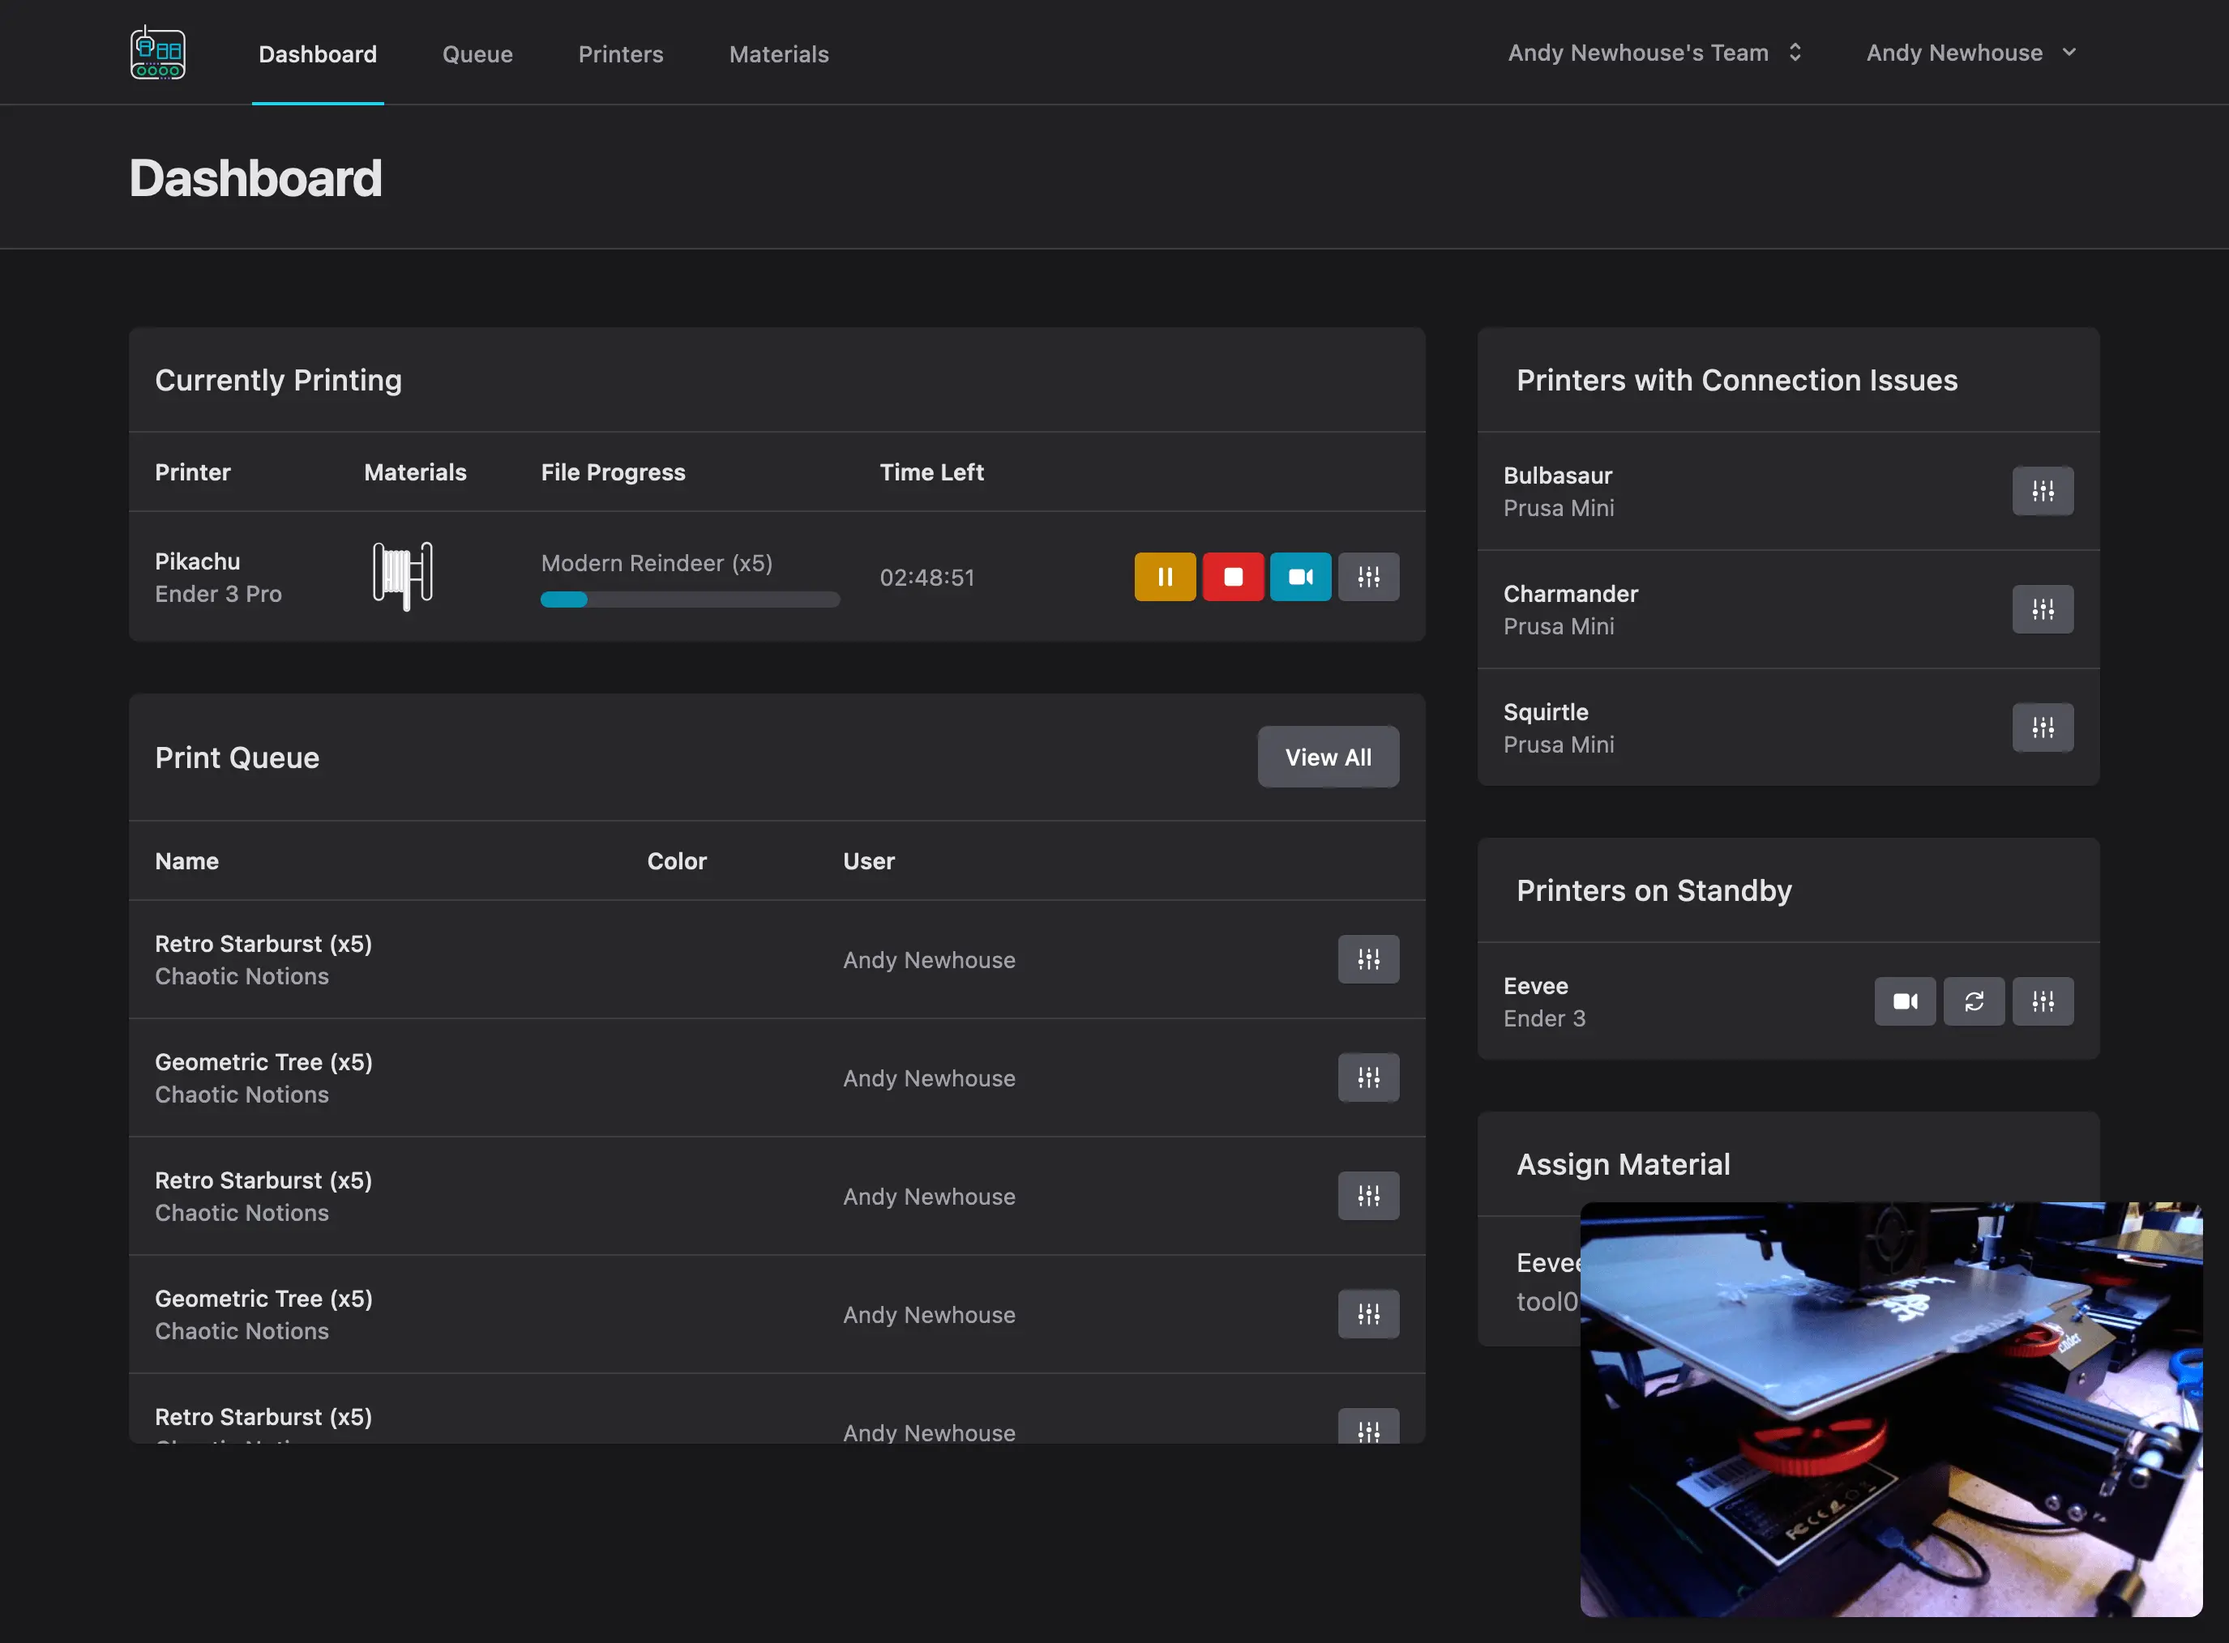
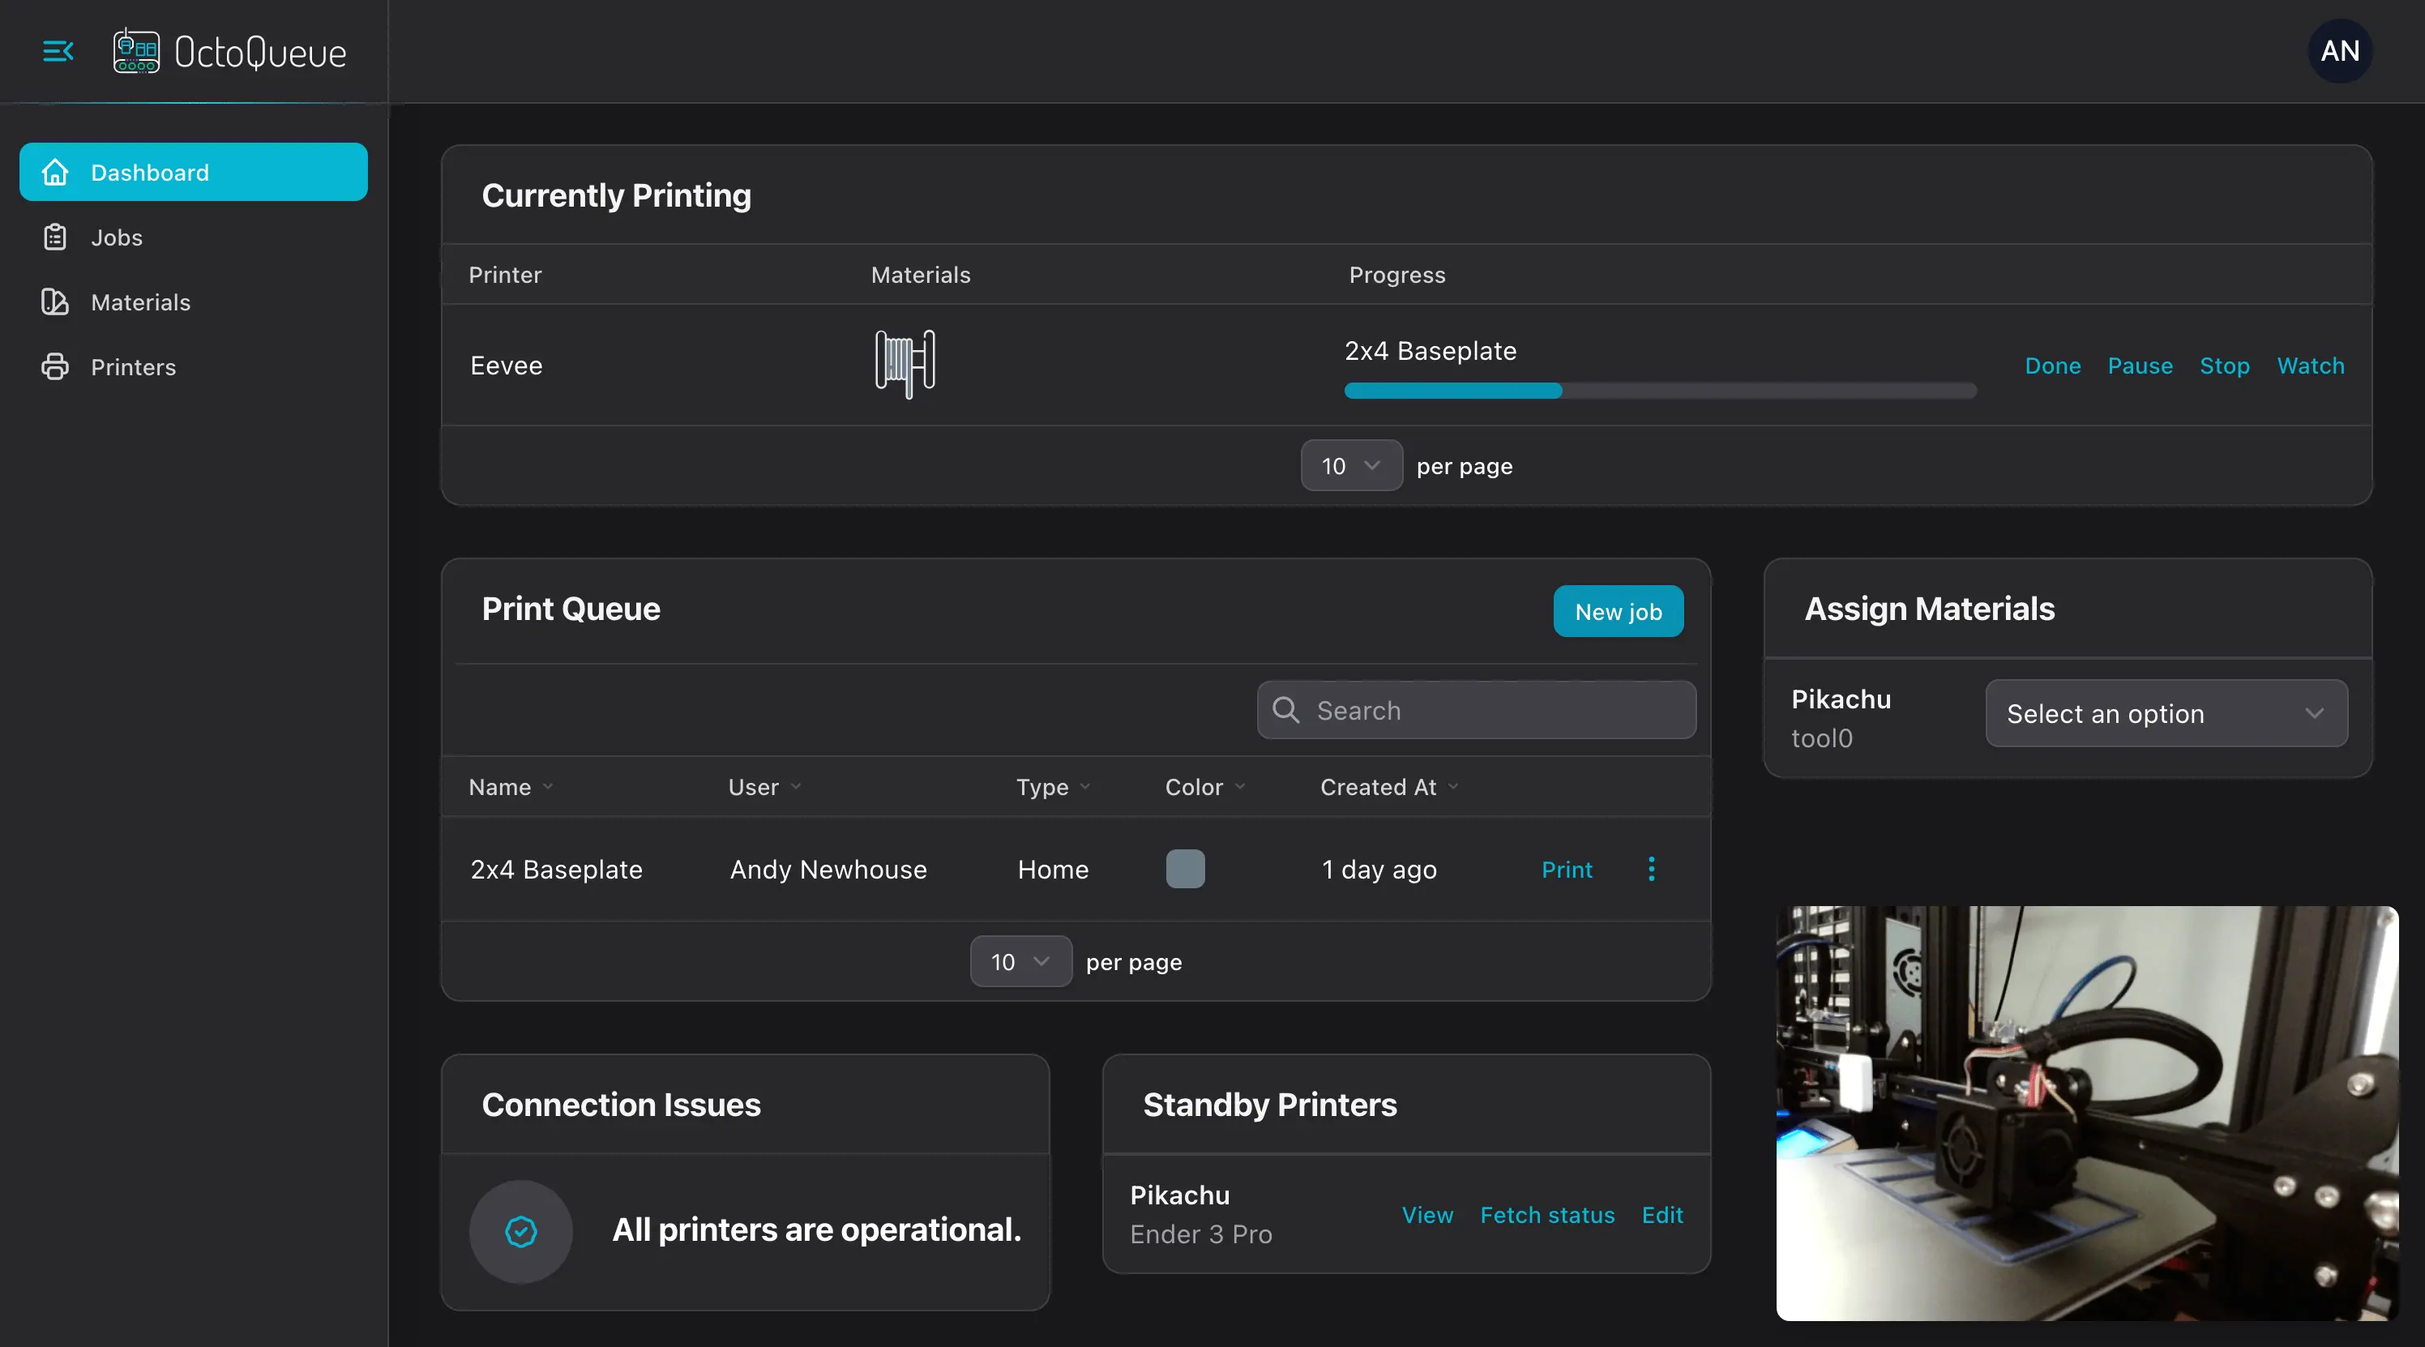
Update dashboard images

diff --git a/README.md b/README.md
@@ -2,8 +2,6 @@
 
 OctoQueue is a wrapper for OctoPrint, adds the ability to connect multiple printers, and allows you to plan prints.
 
-[![Laravel Forge Site Deployment Status](https://img.shields.io/endpoint?url=https%3A%2F%2Fforge.laravel.com%2Fsite-badges%2Fb426b0c1-5c86-400b-b31d-c6e258046444%3Fdate%3D1&style=flat)](https://forge.laravel.com)
-
 ![OctoQueue Dashboard Screenshot](./public/images/dashboard-dark.webp#gh-dark-mode-only)
 ![OctoQueue Dashboard Screenshot](./public/images/dashboard-light.webp#gh-light-mode-only)
 
